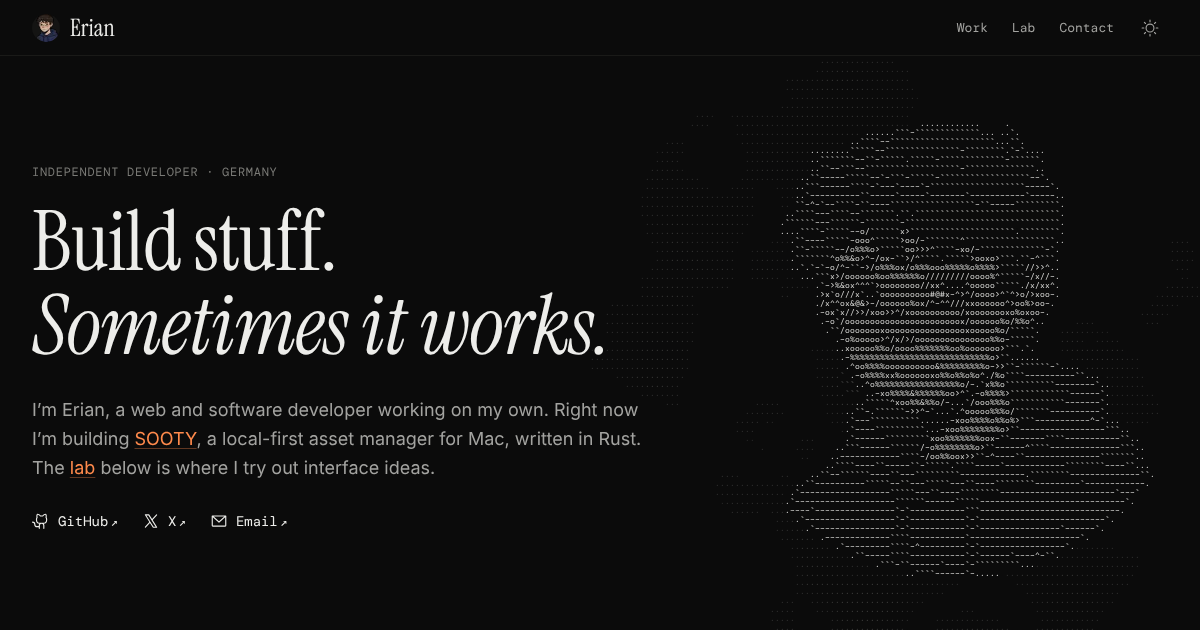
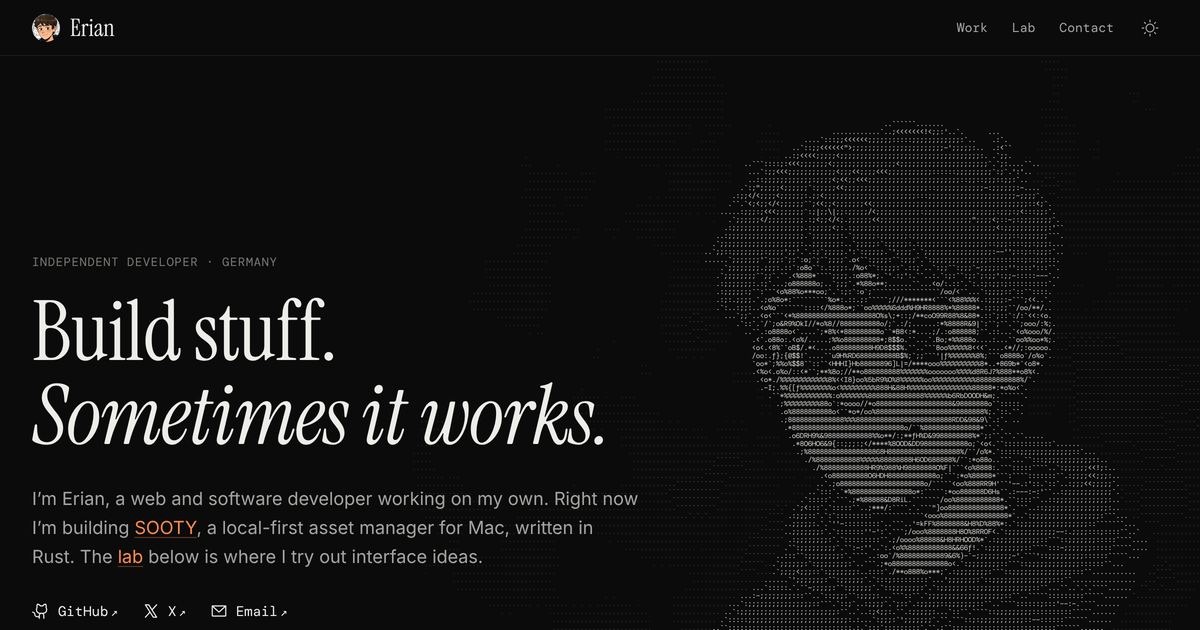
feat(ascii): 首屏头像换成新插画，字一直在跳
- 字符画用的图换成 laken 的新头像插画：tools/portrait.py 用 rembg 的 isnet-anime 抠出人，
  只留亮度、线条加粗、以脸为中心往外渐隐，生成 src/assets/portrait.webp
- 头像那块改成 3:4、480px 宽，字号 7px，脸占的格子多了，五官看得清
- 深色主题把头发、衣服这些暗处提亮一点，跟最黑的线条分得开
- 字一直在跳：随处一小串换成墨量差不多的字，一眨眼落回原样；每 5 秒从下往上扫过一道波。
  原来零星闪一下的去掉
- 省开销：烟每帧只算一半的格子，永远是空的远处格子不算，draw 里不再每次设变换。
  静止时脚本占主线程 4% 左右（原来 3%）
- 重截分享卡片

Claude-Session: https://claude.ai/code/session_01AtSjXM7NZFjW82AbeaRZdh

diff --git a/src/scripts/ascii.ts b/src/scripts/ascii.ts
@@ -1,8 +1,10 @@
 // 首屏的字符画：头像用等宽字符拼出来，四周一圈淡淡的字符像烟一样慢慢流动。
+// 头像里的字一直在跳：随处一小串一小串地换成墨量差不多的字（浓淡不变，人还看得清），一眨眼再落回原样；
+// 每隔几秒从下往上扫过一道，扫到的字浓一下再落回来。
 // 鼠标划过会把字搅乱（变成强调色的乱码，松开后慢慢落回原样），点一下荡开一圈。
 //
 // 画法是 canvas 2D，没用 WebGL：先把要用的字画进一张小图（图集），之后每一格只是 drawImage 一小块。
-// 每一帧只重画变了的格子（被搅动的、闪一下的、烟里换了字的），一帧通常只有几十到几百格，主线程几乎不占。
+// 每一帧只重画变了的格子（被搅动的、跳了的、烟里换了字的），一帧通常只有几十到几百格，主线程几乎不占。
 // 不在屏幕上、切到别的标签页就停；系统开了「减弱动态效果」只画一帧静止的。
 //
 // 用法：mount({ host, canvas, anchor, src })。host 是铺字符的那块（首屏），canvas 盖满它，
@@ -18,14 +20,22 @@ interface Options {
 // 候选的字，按在这款字体里的墨量排好序后挑出一串由淡到浓的（见 buildAtlas）
 const CANDIDATES = ` .'\`,:;-~"^=+<>!/\\|()?ivxzo*%#&$@8B`;
 const LEVELS = 14;                 // 浓淡分几档
-const GAMMA = 1.2;                 // 亮度到浓淡的曲线，大于 1 时中间调偏淡
+// 亮度到浓淡的曲线：深色主题小于 1，把头发、衣服这些暗处提起来一点，跟最黑的线条分得开；
+// 浅色主题大于 1，中间调（皮肤）偏淡，五官的线才显得出来
+const GAMMA = { dark: 0.75, light: 1.2 };
 const NOISE = '!?/\\|()[]{}<>=+*#%&$@0123456789'; // 被搅乱时出现的字
+const JUMP = 'abcdefghijklmnopqrstuvwxyzABCDEFGHIJKLMNOPQRSTUVWXYZ0123456789'; // 跳的时候也能换成这些（墨量差不多的才换）
+const JUMP_RATE = 0.4;             // 头像里每秒大约有多少比例的字跳一下
+const RUN = [3, 10];               // 一次跳同一行连着的几格，像一段字在刷新，比零零散散地跳显眼
+const PULSE_MS = 5000;             // 每隔多久从下往上扫一道
+const SWEEP_MS = 2000;             // 扫一遍用多久
 const FPS = 30;                    // 开场、被搅动时的帧率
-const AMBIENT_FPS = 8;             // 平时（只有烟在飘、偶尔闪一下）的帧率：每画一帧整张 canvas 都要重新合成，平时没必要画那么勤
+const AMBIENT_FPS = 8;             // 平时（烟在飘、字在跳）的帧率：每画一帧整张 canvas 都要重新合成，平时没必要画那么勤
 const HEAT_DECAY = 0.88;           // 搅动的热度每帧衰减
 const HEAT_RADIUS = 7;             // 鼠标周围几格会被搅动（按列算）
 const INTRO_MS = 1300;             // 开场：头像从乱码里显出来用多久
 const RIPPLE_MS = 1100;
+const SMOKE_MIN = 0.08;            // 烟淡过这个就不画
 
 type Theme = { ink: string; hot: string; dark: boolean };
 
@@ -38,7 +48,9 @@ export function mount({ host, canvas, anchor, src }: Options) {
 
   // 网格和每一格的状态
   let W = 0, H = 0, dpr = 1, cw = 7, ch = 12, cols = 0, rows = 0;
-  let base: Uint8Array;        // 每格本来的字（ramp 里的档位，0 是空）
+  let base: Uint8Array;        // 每格本来的浓淡（ramp 里的档位，0 是空）
+  let glyph: Int16Array;       // 头像的格子现在用哪个字（图集序号，在这一档的 pools 里挑）
+  let backAt: Float32Array;    // 跳起来的格子什么时候落回原样（0 是没在跳）
   let baseA: Float32Array;     // 每格本来的不透明度
   let kind: Uint8Array;        // 0 空，1 头像，2 烟
   let heat: Float32Array;      // 被搅动的热度，0 到 1
@@ -51,13 +63,13 @@ export function mount({ host, canvas, anchor, src }: Options) {
   let fieldW: Float32Array;    // 烟在每格的浓度上限（离头像越远越淡）
   let portrait: Int32Array;    // 头像占的格子
   let hot: number[] = [];      // 正在发热的格子
-  let twinkles: { i: number; g: number; until: number }[] = [];
   let ripples: { x: number; y: number; t0: number }[] = [];
   let pc0 = 0, pr0 = 0, pcols = 0, prows = 0; // 头像所在的格子范围
 
   // 图集：每个字画两遍，一行墨色，一行强调色
   let atlas: HTMLCanvasElement | null = null;
   let ramp: number[] = [];     // 由淡到浓每一档对应的图集序号
+  let pools: number[][] = [];  // 每一档里墨量差不多、可以互相换着跳的字
   let noiseIdx: number[] = [];
 
   let theme: Theme = readTheme();
@@ -83,7 +95,7 @@ export function mount({ host, canvas, anchor, src }: Options) {
     ctx.font = f.css;
     cw = Math.max(4, Math.round(ctx.measureText('M').width));
     ch = Math.round(f.size * 1.18);
-    const all = Array.from(new Set(CANDIDATES + NOISE));
+    const all = Array.from(new Set(CANDIDATES + NOISE + JUMP));
     const gw = Math.ceil(cw * dpr), gh = Math.ceil(ch * dpr);
     atlas = document.createElement('canvas');
     atlas.width = gw * all.length;
@@ -105,15 +117,22 @@ export function mount({ host, canvas, anchor, src }: Options) {
     });
     const cand = Array.from(new Set(CANDIDATES)).map(c => all.indexOf(c)).sort((p, q) => ink[p] - ink[q]);
     const max = ink[cand[cand.length - 1]];
+    const target = (l: number) => (Math.min(LEVELS - 1, Math.max(0, l)) / (LEVELS - 1)) ** 1.15 * max;
     ramp = [];
     for (let l = 0; l < LEVELS; l++) {
-      const target = (l / (LEVELS - 1)) ** 1.15 * max;
       let best = cand[0];
-      for (const c of cand) if (Math.abs(ink[c] - target) < Math.abs(ink[best] - target)) best = c;
+      for (const c of cand) if (Math.abs(ink[c] - target(l)) < Math.abs(ink[best] - target(l))) best = c;
       ramp.push(best);
     }
     ramp[0] = all.indexOf(' ');
     noiseIdx = Array.from(NOISE).map(c => all.indexOf(c));
+    // 每一档能换着跳的字：墨量离这一档的字不超过到相邻两档距离的一半，换了浓淡看不出变化
+    pools = ramp.map((g, l) => {
+      if (l === 0) return [g];
+      const tol = (target(l + 1) - target(l - 1)) / 4;
+      const p = all.map((_, i) => i).filter(i => all[i] !== ' ' && Math.abs(ink[i] - ink[g]) <= tol);
+      return p.includes(g) ? p : [g, ...p];
+    });
   }
 
   function layout() {
@@ -130,6 +149,8 @@ export function mount({ host, canvas, anchor, src }: Options) {
     rows = Math.ceil(H / ch);
     const n = cols * rows;
     base = new Uint8Array(n);
+    glyph = new Int16Array(n);
+    backAt = new Float32Array(n);
     baseA = new Float32Array(n);
     kind = new Uint8Array(n);
     heat = new Float32Array(n);
@@ -139,7 +160,6 @@ export function mount({ host, canvas, anchor, src }: Options) {
     wantG = new Int16Array(n).fill(-1);
     resolveAt = new Float32Array(n);
     hot = [];
-    twinkles = [];
 
     const a = anchor.getBoundingClientRect();
     pc0 = Math.round((a.left - r.left) / cw);
@@ -195,11 +215,12 @@ export function mount({ host, canvas, anchor, src }: Options) {
       let v = (lum[k] - lo) / span;
       if (!theme.dark) v = 1 - v;
       v = Math.min(1, Math.max(0, v));
-      const dens = alpha[k] * (0.1 + 0.9 * v ** GAMMA);
+      const dens = alpha[k] * (0.1 + 0.9 * v ** (theme.dark ? GAMMA.dark : GAMMA.light));
       const level = Math.round(dens * (LEVELS - 1));
       const i = gy * cols + gx;
       kind[i] = 1;
       base[i] = level;
+      glyph[i] = ramp[level];
       baseA[i] = 0.9;
       resolveAt[i] = now + 150 + (y / prows) * INTRO_MS * 0.6 + Math.random() * INTRO_MS * 0.4;
       list.push(i);
@@ -218,7 +239,7 @@ export function mount({ host, canvas, anchor, src }: Options) {
       const dx = x - cx, dy = (y - cy) * (ch / cw);
       const dist = Math.sqrt(dx * dx + dy * dy) / reach;
       const k = Math.max(0, 1 - dist);
-      if (k <= 0.02) continue;
+      if (k * k < SMOKE_MIN) continue; // 再远的格子浓度上限不到门槛，永远是空的，不算
       kind[i] = 2;
       idx.push(i);
       w.push(k * k);
@@ -247,7 +268,6 @@ export function mount({ host, canvas, anchor, src }: Options) {
     if (shownG[i] === g && (g < 0 || (shownA[i] === qa && shownC[i] === color))) return;
     shownG[i] = g; shownA[i] = qa; shownC[i] = color;
     const x = (i % cols) * cw, y = Math.floor(i / cols) * ch;
-    ctx.setTransform(dpr, 0, 0, dpr, 0, 0);
     ctx.clearRect(x, y, cw, ch);
     if (g < 0 || qa === 0) return;
     const gw = Math.ceil(cw * dpr), gh = Math.ceil(ch * dpr);
@@ -273,7 +293,7 @@ export function mount({ host, canvas, anchor, src }: Options) {
         else draw(i, ramp[0], 0, 0);
         return;
       }
-      draw(i, ramp[base[i]], baseA[i], 0);
+      draw(i, glyph[i], baseA[i], 0);
     } else if (kind[i] === 2) {
       draw(i, ramp[base[i]], baseA[i], 0);
     } else {
@@ -281,9 +301,12 @@ export function mount({ host, canvas, anchor, src }: Options) {
     }
   }
 
-  function stepField(now: number) {
+  // 烟飘得慢，每帧只算一半的格子（单双号轮着来），省一半的噪声计算；step 传 1 是全算
+  let fieldPhase = 0;
+  function stepField(now: number, step = 2) {
     const t = (now - t0) / 1000;
-    for (let j = 0; j < field.length; j++) {
+    fieldPhase = (fieldPhase + 1) % step;
+    for (let j = fieldPhase; j < field.length; j += step) {
       const i = field[j];
       const x = i % cols, y = (i / cols) | 0;
       // 三层噪声，整体慢慢往上飘（像炭上冒的烟），各层再横着错开一点
@@ -293,7 +316,7 @@ export function mount({ host, canvas, anchor, src }: Options) {
         + noise(x * 0.23, yy * 0.23 + t * 0.8) * 0.15;
       // 浓的地方字浓、也更不透明，边上是若有若无的点，没有硬边
       const v = Math.min(1, Math.max(0, (n - 0.42) / 0.38)) * fieldW[j];
-      base[i] = v < 0.08 ? 0 : 1 + Math.min(2, Math.floor(v * 3));
+      base[i] = v < SMOKE_MIN ? 0 : 1 + Math.min(2, Math.floor(v * 3));
       baseA[i] = 0.1 + 0.5 * v;
       if (heat[i] <= 0.04) settle(i, now);
     }
@@ -348,19 +371,38 @@ export function mount({ host, canvas, anchor, src }: Options) {
     ringPrev = new Set(ring.keys());
   }
 
-  function stepTwinkles(now: number) {
-    twinkles = twinkles.filter(tw => {
-      if (now < tw.until) return true;
-      settle(tw.i, now);
-      return false;
-    });
-    const n = Math.max(1, Math.round(portrait.length * 0.008));
-    for (let k = 0; k < n; k++) {
-      const i = portrait[(Math.random() * portrait.length) | 0];
-      if (i === undefined || base[i] === 0 || heat[i] > 0.04 || now < resolveAt[i]) continue;
-      const g = ramp[Math.max(1, Math.min(LEVELS - 1, base[i] + (Math.random() < 0.5 ? -1 : 1)))];
-      draw(i, g, baseA[i], 0);
-      twinkles.push({ i, g, until: now + 180 + Math.random() * 320 });
+  // 字跳一下：换成 level 那一档里随便哪个字，hold 毫秒后落回本来的字
+  function jump(i: number, level: number, alpha: number, until: number) {
+    glyph[i] = rand(pools[level]);
+    backAt[i] = until;
+    draw(i, glyph[i], alpha, 0);
+  }
+  function calm(i: number, now: number) {
+    return base[i] > 0 && heat[i] <= 0.04 && now >= resolveAt[i];
+  }
+  function stepJump(now: number) {
+    // 扫过的一道：一半的字换成浓两档的，像一道波走过去
+    const p = ((now - t0) % PULSE_MS) / SWEEP_MS;
+    const band = p < 1 ? pr0 + (prows + 6) * (1 - p) - 3 : -1e9;
+    for (let j = 0; j < portrait.length; j++) {
+      const i = portrait[j];
+      if (!calm(i, now)) continue;
+      if (Math.abs(((i / cols) | 0) - band) < 3 && Math.random() < 0.5) {
+        jump(i, Math.min(LEVELS - 1, base[i] + 2), 1, now + 250 + Math.random() * 700);
+      } else if (backAt[i] && now >= backAt[i]) {
+        backAt[i] = 0;
+        glyph[i] = ramp[base[i]];
+        draw(i, glyph[i], baseA[i], 0);
+      }
+    }
+    // 平时：随手挑几处，每处跳同一行连着的一小串
+    for (let n = portrait.length * JUMP_RATE / AMBIENT_FPS; n > 0;) {
+      const i0 = portrait[(Math.random() * portrait.length) | 0];
+      const len = RUN[0] + ((Math.random() * (RUN[1] - RUN[0] + 1)) | 0);
+      const end = Math.min(i0 + len, (((i0 / cols) | 0) + 1) * cols);
+      const until = now + 150 + Math.random() * 450;
+      for (let i = i0; i < end; i++) if (kind[i] === 1 && !backAt[i] && calm(i, now)) jump(i, base[i], baseA[i], until);
+      n -= len;
     }
   }
 
@@ -393,11 +435,11 @@ export function mount({ host, canvas, anchor, src }: Options) {
       }
       introPending = left > 0;
     }
-    // 烟和闪烁按平时的帧率走，被搅动时也不跟着变快
+    // 烟和跳字按平时的帧率走，被搅动时也不跟着变快
     if (now - lastAmbient >= 1000 / AMBIENT_FPS - 2) {
       lastAmbient = now;
       stepField(now);
-      stepTwinkles(now);
+      if (!introPending) stepJump(now);
     }
     stepRipples(now);
     stepHeat(now);
@@ -410,8 +452,9 @@ export function mount({ host, canvas, anchor, src }: Options) {
   // 一帧静止的：开场直接跳过，烟定在一个样子
   function still() {
     const now = performance.now();
+    ctx.setTransform(dpr, 0, 0, dpr, 0, 0);
     for (let j = 0; j < portrait.length; j++) resolveAt[portrait[j]] = 0;
-    stepField(now);
+    stepField(now, 1);
     for (let j = 0; j < portrait.length; j++) settle(portrait[j], now);
   }
 

diff --git a/tools/portrait.py b/tools/portrait.py
@@ -1,0 +1,59 @@
+"""把头像插画做成网站用的几张图。
+
+  python3 tools/portrait.py <插画.png>
+
+生成：
+  src/assets/portrait.webp    首屏字符画用的：人物抠出来（透明底），线条加粗、肩膀和下面渐隐
+  src/assets/avatar.webp      顶栏和项目列表里的小头像：原图裁头部
+  public/favicon.png、public/apple-touch-icon.png
+
+要先装：pip install "rembg[cpu]" scipy pillow numpy（第一次跑会下载 176 MB 的抠图模型）。
+抠图为什么用 rembg 的 isnet-anime 模型见 README 的「字符画」。
+"""
+import sys
+from pathlib import Path
+
+import numpy as np
+from PIL import Image
+from rembg import new_session, remove
+from scipy import ndimage
+
+ROOT = Path(__file__).resolve().parent.parent
+
+src = Image.open(sys.argv[1]).convert('RGB')
+W, H = src.size
+
+# 抠图。模型对背景里的小怪物会给一半的不透明度，砍掉；只留最大的一块（人）
+cut = np.array(remove(src, session=new_session('isnet-anime')))
+a = np.clip((cut[..., 3] / 255 - 0.55) / 0.35, 0, 1)
+lab, n = ndimage.label(a > 0.5)
+sizes = ndimage.sum(np.ones_like(a), lab, range(1, n + 1))
+a *= ndimage.binary_dilation(lab == 1 + int(np.argmax(sizes)), iterations=3)
+
+# 字符画一格大约是原图的 8 个像素，原图的线只有 5、6 个像素宽，缩下去就糊没了：
+# 只留亮度，暗的线条往外扩几个像素，五官的线缩下去还在
+rgb = np.array(src).astype(np.float32) / 255
+lum = rgb @ np.array([0.2126, 0.7152, 0.0722], dtype=np.float32)
+lum = ndimage.minimum_filter(lum, size=7)
+
+# 以脸为中心往外渐隐：肩膀、胸口慢慢淡进四周的烟里，不留硬边
+y, x = np.mgrid[0:H, 0:W] / np.float32(W)
+cx, cy = 0.44, 0.36
+d = np.sqrt(((x - cx) / 0.40) ** 2 + ((y - cy) / 0.50) ** 2)
+t = np.clip((d - 0.7) / 0.32, 0, 1)
+a *= 1 - t * t * (3 - 2 * t)
+
+g = (lum * 255).astype(np.uint8)
+im = Image.fromarray(np.dstack([g, g, g, (a * 255).astype(np.uint8)]), 'RGBA')
+ys, xs = np.where(a > 0.03)
+im = im.crop((xs.min(), ys.min(), xs.max() + 1, ys.max() + 1))
+im.thumbnail((720, 960), Image.LANCZOS)
+im.save(ROOT / 'src/assets/portrait.webp', quality=90, method=6)
+print('portrait.webp', im.size)
+
+# 小头像：裁头部
+head = src.crop((round(W * 0.163), round(H * 0.028), round(W * 0.717), round(H * 0.582)))
+head.resize((256, 256), Image.LANCZOS).save(ROOT / 'src/assets/avatar.webp', quality=88, method=6)
+head.resize((180, 180), Image.LANCZOS).save(ROOT / 'public/apple-touch-icon.png', optimize=True)
+head.resize((64, 64), Image.LANCZOS).save(ROOT / 'public/favicon.png', optimize=True)
+print('avatar.webp, favicon.png, apple-touch-icon.png')
